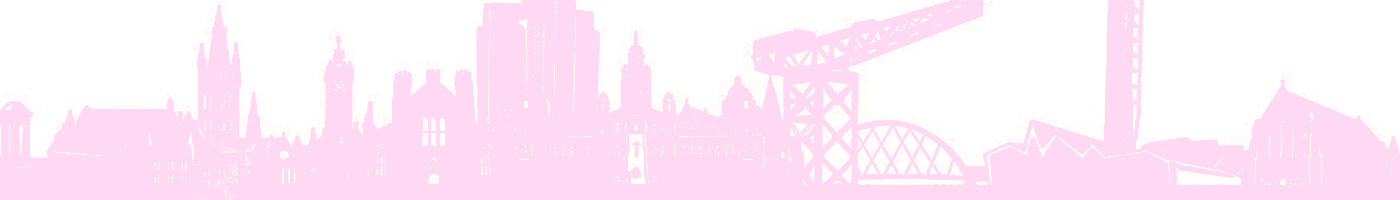
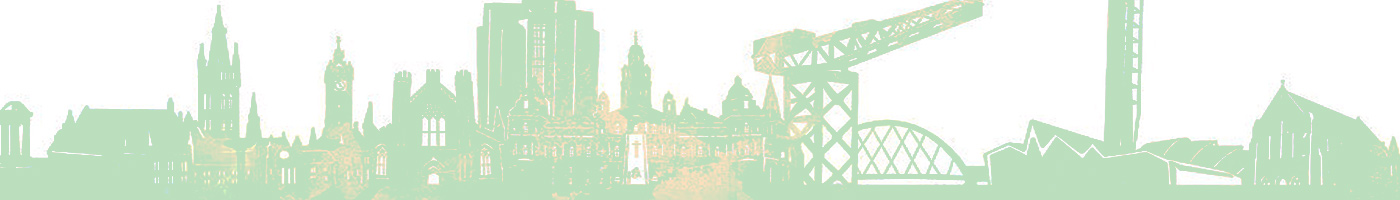
image updated, band image added

diff --git a/index.html b/index.html
@@ -26,8 +26,9 @@
       <div class="card">
         <h2>Background</h2>
         <p>I'm an aspiring front-end web developer with over 10 years of digital marketing experience. </p>
-        <p>I have some intermediate knowledge html and css from email marketing and this has always been one of the most exciting parts of the job for me.</p>
+        <p>I have some intermediate knowledge HTML and CSS from email marketing and this has always been one of the most exciting parts of the job for me.</p>
         <p>My favourite band are The National.</p>
+        <img src="images/the-national.jpg" alt="The best band in the world">
       </div> 
 
       <div class="card">

diff --git a/styles.css b/styles.css
@@ -59,7 +59,7 @@ header {
   text-align: center;
   background: url('images/glasgow.jpg') no-repeat top center ;
   background-size: auto;
-  overflow: hidden;
+  overflow: visible;
   padding-top: 60px;
 }
 header {
@@ -99,7 +99,7 @@ header .profile-image:hover {
   transition: all .5s;
 }
 .card:hover {
-  border-color: #ff99ff;
+  border-color: #9ebc9f;
 }
 
 ul.skills {
@@ -117,7 +117,7 @@ ul.skills {
 }
 
 .skills li:nth-child(odd) {
-  background: #0399ff;
+  background: #9ebc9f;
 }
 
 footer {
